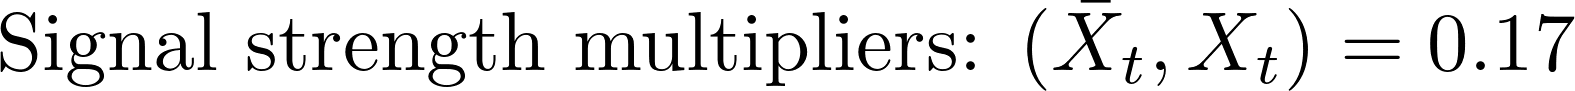
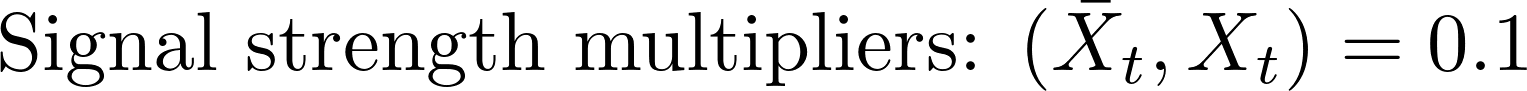
400

diff --git a/protomodels/ewkinos_230/index.html b/protomodels/ewkinos_230/index.html
@@ -1,34 +1,35 @@
 <html>
 <body>
 <center>
-<table><td><h1>Current best protomodel: <i>K</i>=3.70, <i>Z</i>=2.44</h1><td><img height=60px src=https://smodels.github.io//protomodels/logos/protomodel_lego.png></table>
+<table><td><h1>Current best protomodel: <i>K</i>=4.08, <i>Z</i>=2.52</h1><td><img height=60px src=https://smodels.github.io//protomodels/logos/protomodel_lego.png></table>
 </center>
-<b><a href=./hiscore.slha>ProtoModel</a> <a href=./pmodel.py>(dict)</a> produced with <a href=https://smodels.github.io//docs/Validation230>database v2.3.0</a>, combination strategy <a href=./matrix.png>aggressive</a> in walker 2 step 21.</b>  SSM plots for: <a href=./ssm_-1000006_1000006.png?112675678>(x&#772;<sub>t</sub>,X<sub>t</sub>)</a><br>
+<b><a href=./hiscore.slha>ProtoModel</a> <a href=./pmodel.py>(dict)</a> produced with <a href=https://smodels.github.io//docs/Validation230>database v2.3.0</a>, combination strategy <a href=./matrix.png>aggressive</a> in walker 36 step 115.</b>  SSM plots for: <a href=./ssm_-1000006_1000006.png?112740893>(x&#772;<sub>t</sub>,X<sub>t</sub>)</a><br>
 <table width=80%>
 <tr><td>
-<br><b>33 predictions available. Highest r values are:</b><br><ul>
-<li><a href=http://cms-results.web.cern.ch/cms-results/public-results/publications/SUS-20-002/index.html>CMS-SUS-20-002</a>:T2tt r=1.31, r<sub>exp</sub>=1.18<br>
-<li><a href=http://cms-results.web.cern.ch/cms-results/public-results/publications/SUS-19-010/index.html>CMS-SUS-19-010</a>:T2tt r=0.98, r<sub>exp</sub>=0.92<br>
-<li><a href=http://cms-results.web.cern.ch/cms-results/public-results/publications/SUS-19-009/index.html>CMS-SUS-19-009</a>:T2tt r=0.84, r<sub>exp</sub>=0.81<br>
-<li><a href=http://cms-results.web.cern.ch/cms-results/public-results/publications/SUS-19-006/index.html>CMS-SUS-19-006-agg</a>:T2tt r=0.75, r<sub>exp</sub>=0.43<br>
-<li><a href=http://cms-results.web.cern.ch/cms-results/public-results/publications/SUS-19-006/index.html>CMS-SUS-19-006</a>:T2tt r=0.74, r<sub>exp</sub>=0.47<br>
+<br><b>36 predictions available. Highest r values are:</b><br><ul>
+<li><a href=http://cms-results.web.cern.ch/cms-results/public-results/publications/SUS-20-002/index.html>CMS-SUS-20-002</a>:T2tt r=1.30, r<sub>exp</sub>=1.27<br>
+<li><a href=http://cms-results.web.cern.ch/cms-results/public-results/publications/SUS-19-010/index.html>CMS-SUS-19-010</a>:T2tt r=0.93, r<sub>exp</sub>=1.00<br>
+<li><a href=http://cms-results.web.cern.ch/cms-results/public-results/publications/SUS-19-009/index.html>CMS-SUS-19-009</a>:T2tt r=0.88, r<sub>exp</sub>=0.84<br>
+<li><a href=http://cms-results.web.cern.ch/cms-results/public-results/publications/SUS-19-006/index.html>CMS-SUS-19-006-agg</a>:T2tt r=0.84, r<sub>exp</sub>=0.45<br>
+<li><a href=http://cms-results.web.cern.ch/cms-results/public-results/publications/SUS-19-006/index.html>CMS-SUS-19-006</a>:T2tt r=0.81, r<sub>exp</sub>=0.49<br>
 </ul>
 <td><br><b>contributions to K:</b><br>
 <ul>
-<li> <a href=http://cms-results.web.cern.ch/cms-results/public-results/publications/SUS-17-010>CMS-SUS-17-010</a>: 6.90 (16%)
-<li> <a href=http://cms-results.web.cern.ch/cms-results/public-results/publications/SUS-16-051/index.html>CMS-SUS-16-051</a>: 6.90 (16%)
-<li> <a href=http://cms-results.web.cern.ch/cms-results/public-results/publications/SUS-16-033/index.html>CMS-SUS-16-033</a>: 6.86 (16%)
-<li> <a href=https://twiki.cern.ch/twiki/bin/view/CMSPublic/PhysicsResultsSUS13015>CMS-PAS-SUS-13-015</a>: 6.65 (15%)
-<li> <a href=https://atlas.web.cern.ch/Atlas/GROUPS/PHYSICS/PAPERS/SUSY-2013-16/>ATLAS-SUSY-2013-16</a>: 6.41 (14%)
-<li> <a href=https://atlas.web.cern.ch/Atlas/GROUPS/PHYSICS/PAPERS/SUSY-2013-15/>ATLAS-SUSY-2013-15</a>: 6.38 (14%)
-<li> <a href=https://atlas.web.cern.ch/Atlas/GROUPS/PHYSICS/PAPERS/SUSY-2018-08/>ATLAS-SUSY-2018-08</a>: 5.15 (7%)
-<li> <a href=https://atlas.web.cern.ch/Atlas/GROUPS/PHYSICS/PAPERS/SUSY-2016-16/>ATLAS-SUSY-2016-16</a>: 4.94 (6%)
-<li> <a href=https://atlas.web.cern.ch/Atlas/GROUPS/PHYSICS/PAPERS/SUSY-2018-12/>ATLAS-SUSY-2018-12</a>: 2.89 (-4%)
-<td><img width=600px src=./texdoc.png?1705675678>
-<br><font size=-1>Last updated: Fri Jan 19 15:47:58 2024</font>
+<li> <a href=https://twiki.cern.ch/twiki/bin/view/CMSPublic/PhysicsResultsSUS13011>CMS-SUS-13-011</a>: 6.95 (15%)
+<li> <a href=http://cms-results.web.cern.ch/cms-results/public-results/publications/SUS-17-010>CMS-SUS-17-010</a>: 6.91 (15%)
+<li> <a href=http://cms-results.web.cern.ch/cms-results/public-results/publications/SUS-16-051/index.html>CMS-SUS-16-051</a>: 6.91 (15%)
+<li> <a href=http://cms-results.web.cern.ch/cms-results/public-results/publications/SUS-16-033/index.html>CMS-SUS-16-033</a>: 6.84 (14%)
+<li> <a href=https://twiki.cern.ch/twiki/bin/view/CMSPublic/PhysicsResultsSUS13015>CMS-PAS-SUS-13-015</a>: 6.61 (13%)
+<li> <a href=https://atlas.web.cern.ch/Atlas/GROUPS/PHYSICS/PAPERS/SUSY-2013-16/>ATLAS-SUSY-2013-16</a>: 6.37 (12%)
+<li> <a href=https://atlas.web.cern.ch/Atlas/GROUPS/PHYSICS/PAPERS/SUSY-2013-15/>ATLAS-SUSY-2013-15</a>: 6.31 (12%)
+<li> <a href=https://atlas.web.cern.ch/Atlas/GROUPS/PHYSICS/PAPERS/SUSY-2018-08/>ATLAS-SUSY-2018-08</a>: 5.27 (6%)
+<li> <a href=https://atlas.web.cern.ch/Atlas/GROUPS/PHYSICS/PAPERS/SUSY-2016-16/>ATLAS-SUSY-2016-16</a>: 4.97 (5%)
+<li> <a href=https://atlas.web.cern.ch/Atlas/GROUPS/PHYSICS/PAPERS/SUSY-2018-12/>ATLAS-SUSY-2018-12</a>: 2.88 (-6%)
+<td><img width=600px src=./texdoc.png?1705740893>
+<br><font size=-1>Last updated: Sat Jan 20 09:54:53 2024</font>
 </table><table style="width:80%">
-<td width=45%><img height=580px src=./ruler.png?1705675678><td width=55%><img height=340px src=./decays.png?1705675678>
-<font size=-3><iframe type="text/html" height="270px" width="100%s" frameborder="0" src="./rawnumbers.html?1705675678"></iframe></font>
+<td width=45%><img height=580px src=./ruler.png?1705740893><td width=55%><img height=340px src=./decays.png?1705740893>
+<font size=-3><iframe type="text/html" height="270px" width="100%s" frameborder="0" src="./rawnumbers.html?1705740893"></iframe></font>
 </table>
 </body>
 </html>

diff --git a/protomodels/ewkinos_230/rawnumbers.html b/protomodels/ewkinos_230/rawnumbers.html
@@ -7,7 +7,8 @@
 <tr><td><a href=https://atlas.web.cern.ch/Atlas/GROUPS/PHYSICS/PAPERS/SUSY-2018-08/>ATLAS-SUSY-2018-08</a></td><td>em</td> <td>SRSF140</td><td>T2tt</td><td>9</td><td>5.1 +/- 0.9</td><td style="text-align:right">1.6 &sigma;</td><td style="text-align:right">X<sub>t</sub></td></tr>
 <tr><td><a href=https://atlas.web.cern.ch/Atlas/GROUPS/PHYSICS/PAPERS/SUSY-2018-12/>ATLAS-SUSY-2018-12</a></td><td>em</td> <td>SRBTT</td><td>T2tt</td><td>67</td><td>46 +/- 7</td><td style="text-align:right">2.2 &sigma;</td><td style="text-align:right">X<sub>t</sub></td></tr>
 <tr><td><a href=https://twiki.cern.ch/twiki/bin/view/CMSPublic/PhysicsResultsSUS13015>CMS-PAS-SUS-13-015</a></td><td>em</td> <td>pTmiss350_Nb2</td><td>T2tt</td><td>15</td><td>8.6 +/- 7.1</td><td style="text-align:right">0.8 &sigma;</td><td style="text-align:right">X<sub>t</sub></td></tr>
+<tr><td><a href=https://twiki.cern.ch/twiki/bin/view/CMSPublic/PhysicsResultsSUS13011>CMS-SUS-13-011</a></td><td>em</td> <td>LM150</td><td>T2tt</td><td>227</td><td>251 +/- 50</td><td style="text-align:right">-0.5 &sigma;</td><td style="text-align:right">X<sub>t</sub></td></tr>
 <tr><td><a href=http://cms-results.web.cern.ch/cms-results/public-results/publications/SUS-16-033/index.html>CMS-SUS-16-033</a></td><td>em</td> <td>SR2_Njet3_Nb0_H ...</td><td>T2tt</td><td>71</td><td>55.2 +/- 11.5</td><td style="text-align:right">1.2 &sigma;</td><td style="text-align:right">X<sub>t</sub></td></tr>
-<tr><td><a href=http://cms-results.web.cern.ch/cms-results/public-results/publications/SUS-16-051/index.html>CMS-SUS-16-051</a></td><td>ul</td> <td>-</td><td>T2tt</td><td> 30.8 fb </td><td> 34.1 fb</td><td style="text-align:right">-0.2 &sigma;</td><td style="text-align:right">X<sub>t</sub></td></tr>
-<tr><td><a href=http://cms-results.web.cern.ch/cms-results/public-results/publications/SUS-17-010>CMS-SUS-17-010</a></td><td>ul</td> <td>-</td><td>T2tt</td><td> 85.2 fb </td><td> 98.9 fb</td><td style="text-align:right">-0.3 &sigma;</td><td style="text-align:right">X<sub>t</sub></td></tr>
+<tr><td><a href=http://cms-results.web.cern.ch/cms-results/public-results/publications/SUS-16-051/index.html>CMS-SUS-16-051</a></td><td>ul</td> <td>-</td><td>T2tt</td><td> 33.5 fb </td><td> 35.6 fb</td><td style="text-align:right">-0.1 &sigma;</td><td style="text-align:right">X<sub>t</sub></td></tr>
+<tr><td><a href=http://cms-results.web.cern.ch/cms-results/public-results/publications/SUS-17-010>CMS-SUS-17-010</a></td><td>ul</td> <td>-</td><td>T2tt</td><td> 93.9 fb </td><td> 102.3 fb</td><td style="text-align:right">-0.2 &sigma;</td><td style="text-align:right">X<sub>t</sub></td></tr>
 </table>

diff --git a/protomodels/ewkinos_230/pmodel.py b/protomodels/ewkinos_230/pmodel.py
@@ -1,1 +1,1 @@
-{'masses': {1000022: 325.977, 1000006: 694.023}, 'ssmultipliers': {(1000022, 1000022): 0.156, (1000006, 1000006): 0.174, (-1000006, 1000006): 0.174, (-1000006, -1000006): 0.174, (1000006, 1000022): 0.174, (-1000006, 1000022): 0.174}, 'decays': {1000022: {}, 1000006: {(1000022, 6): 1.0}}, 'timestamp': 'Fri Jan 19 15:47:33 2024', 'Z': 2.439, 'K': 3.7, 'walkerid': 2, 'step': 21, 'codever': '2.0', 'dbver': '2.3.0'}
+{'masses': {1000022: 224.401, 1000006: 616.314}, 'ssmultipliers': {(1000022, 1000022): 0.0, (1000006, 1000006): 0.008, (-1000006, 1000006): 0.097, (-1000006, -1000006): 0.008, (1000006, 1000022): 0.008, (-1000006, 1000022): 0.008}, 'decays': {1000022: {}, 1000006: {(1000022, 6): 1.0}}, 'timestamp': 'Sat Jan 20 09:54:24 2024', 'Z': 2.516, 'K': 4.08, 'walkerid': 36, 'step': 115, 'codever': '2.0', 'dbver': '2.3.0'}
